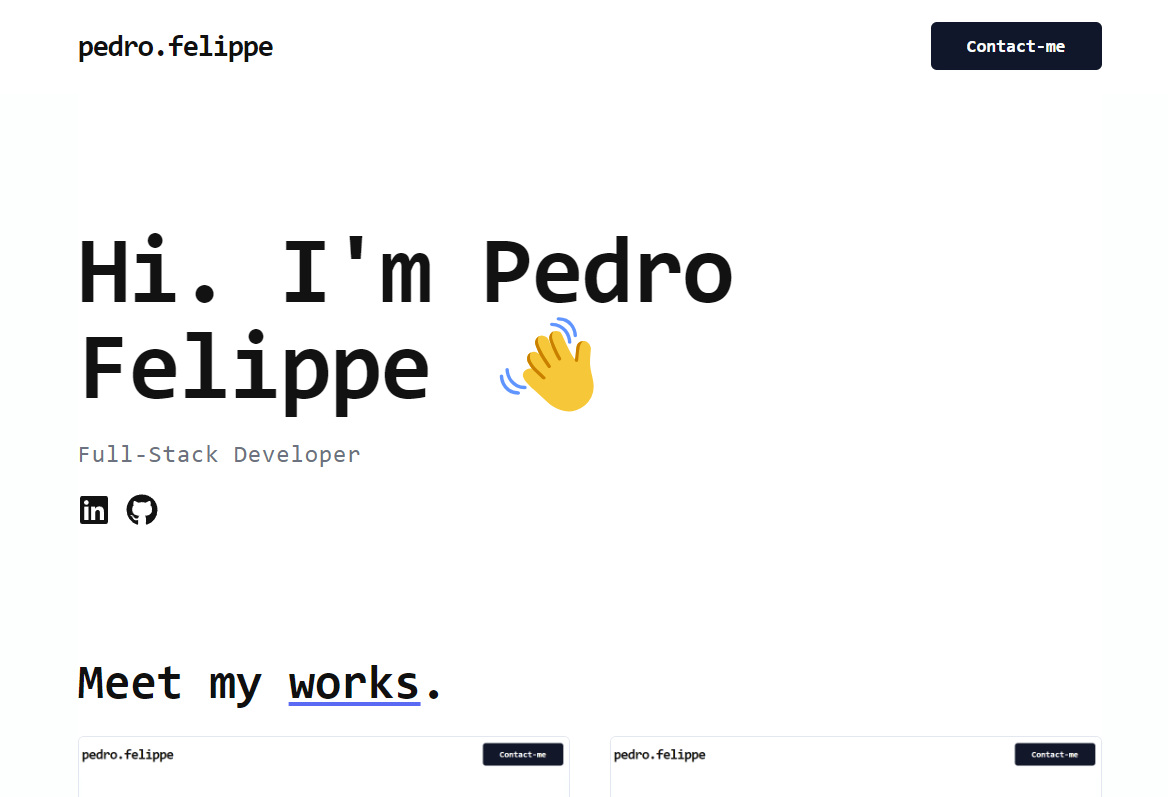
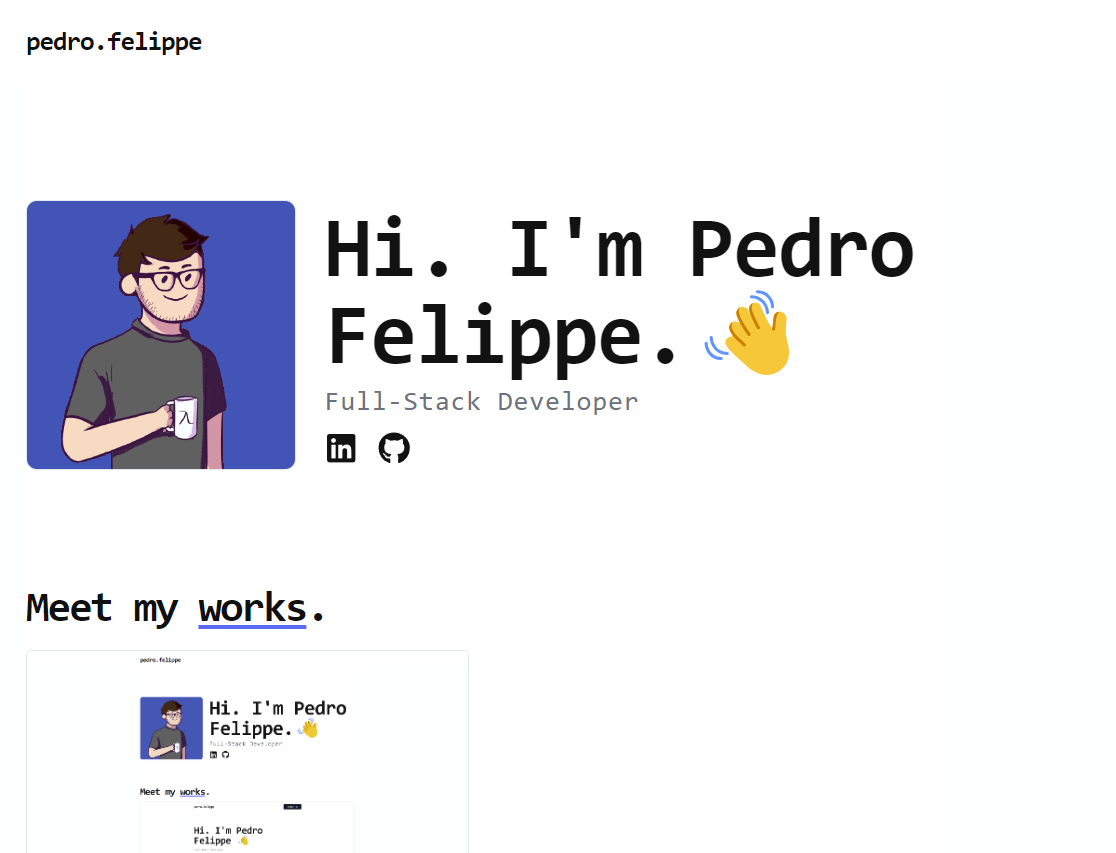
creating about e css adjusments

diff --git a/src/content/Hero.tsx b/src/content/Hero.tsx
@@ -3,78 +3,44 @@ import { motion } from "framer-motion";
 import { FaGithub, FaLinkedin } from "react-icons/fa";
 
 import AnimatedBtn from "../components/animated/AnimatedBtn";
-import { Button } from "../components/ui/button";
 
 export default function Hero() {
   return (
     <motion.div
-      className="flex flex-col justify-start w-full  h-fit mx  text-start max-md:flex-col gap-4 max-w-3xl md:gap-10">
+      className="flex justify-start w-full  h-fit mx  text-center max-md:flex-col gap-4 md:gap-10 ">
+      <motion.img src="/assets/avatar-pdr.png" alt="pedro felippe"   className="border rounded-xl max-md:rounded-full max-md:h-28 max-md:w-28 md:w-[300px]"/>
 
-      <motion.div 
-        className="flex flex-col w-full gap-6   justify-center">
+      <motion.div className="flex flex-col w-full gap-2   justify-center">
         <motion.h1         
           initial={{ opacity: 0, y: 25 }}
           animate={{ opacity: 1, y: 0 }}
-          transition={{ duration: 0.5}}  
+          transition={{ duration: 0.5}} 
           className="text-5xl md:text-8xl text-start font-bold  tracking-tight">
-          Hi. I'm Pedro Felippe 👋
+          Hi. I'm Pedro Felippe.👋
         </motion.h1>
 
         <motion.h3
           initial={{ opacity: 0, y: 25 }}
           animate={{ opacity: 1, y: 0 }}
           transition={{ duration: 0.5, delay:0.5}}  
-          className="text-2xl text-gray-500 text-start font-medium tracking-[1px]">
-          Full-Stack Developer
+          className="text-3xl text-gray-500 text-start font-medium tracking-[1px] pb-2">
+          Full-Stack Developer 
         </motion.h3>
 
         <motion.div
           initial={{ opacity: 0, y: 25 }}
           animate={{ opacity: 1, y: 0 }}
           transition={{ duration: 0.5, delay:1}}  
-          className="flex gap-4 items-center">
+          className="flex gap-6 items-center">
             <AnimatedBtn target="_blank" href="https://www.linkedin.com/in/pedro-felippe/">
-              <FaLinkedin className="h-9 w-9 hover:text-blue"/>
+              <FaLinkedin className="h-10 w-10 hover:text-blue"/>
             </AnimatedBtn>
 
             <AnimatedBtn  href="https://github.com/pefelippe">
-              <FaGithub className="h-9 w-9 hover:text-blue"/>
-            </AnimatedBtn>
-
-            <AnimatedBtn target="_blank" href="https://drive.google.com/file/d/1V5sxQbNz1tgaO3exTl3aTvql7l8qxl2r/view?usp=sharing">
-              <Button variant="secondary" className="w-fit px-16 py-7 font-semibold hover:underline border text-lg xl:text-xl ">
-                <p>Resume</p>
-              </Button>
+              <FaGithub className="h-10 w-10 hover:text-blue"/>
             </AnimatedBtn>
         </motion.div>
-        
-        {/* <motion.span
-          className="text-lg  font-regular w-full text-gray-700  tracking-tight "
-        >
-          I've been coding simple, fast and easy to use web interfaces since 2018.
-          I deal with cloud services, keeping everything connected, and making sure the databases work smoothly. 
-        </motion.span>
-
-        <motion.div className="flex gap-3 max-w-xl ">
-          <Button variant='outline' className="py-7 text-lg font-medium hover:underline">
-            <Link target="_blank" href="https://www.linkedin.com/in/pedro-felippe/">
-              <FaLinkedin className="h-6 w-6"/>
-            </Link>
-          </Button>
-          <Button variant='outline' className=" py-7 text-lg font-medium hover:underline">
-            <Link target="_blank" href="https://github.com/pefelippe">
-              <FaGithub className="h-6 w-6"/>
-            </Link>
-          </Button>
-          <Button variant="secondary" className="w-fit px-16 py-7 text-xl font-semibold hover:underline border text-lg xl:text-xl ">
-            <Link target="_blank" href="https://drive.google.com/file/d/1V5sxQbNz1tgaO3exTl3aTvql7l8qxl2r/view?usp=sharing">
-              Resume
-            </Link>
-          </Button>
-        </motion.div> */}
       </motion.div>
-
-  
 
     </motion.div>
   );

diff --git a/src/content/About.tsx b/src/content/About.tsx
@@ -1,35 +1,49 @@
 /* eslint-disable react/no-unescaped-entities */
 import { motion } from "framer-motion";
+import Image from "next/image";
+
+import AnimatedBtn from "../components/animated/AnimatedBtn";
+import { Button } from "../components/ui/button";
 
 function AboutContent() {
   return (
-    <motion.div
-      className="flex justify-start w-full mx-auto  gap-10
-       items-center relative  max-xl:flex-col min-h-screen"
-    >
-      <motion.div
+    <motion.div 
+      initial={{ opacity: 0, y: 50 }}
+      whileInView={{ opacity: 1, y: 0 }}
+      transition={{ duration: 0.5}}   
+      className="flex justify-center w-full mx-auto gap-6 items-start relative  flex-col ">
 
-        className="font-extralight text-xl  flex flex-col gap-4
-         h-full w-full justify-start text-start items-start"
-      >
         <motion.h1
           initial={{ y: 75 }}
           animate={{  y: 0 }}
           transition={{ duration: 0.5 }}
-          className="text-[40px] xl:text-7xl max-w-3xl font-bold leading-relaxed tracking-tighter font-mono"
+          className="text-[40px] xl:text-5xl max-w-3xl font-bold tracking-tighter font-mono"
         >
-          Hello, I'm Pedro 👋
+          Who am i.
         </motion.h1>
 
-        <motion.h3
-          initial={{ y: 75, opacity: 0 }}
-          animate={{  y: 0, opacity: 1 }}
-          transition={{ duration: 0.5, delay: 0.5 }} 
-          className="font-thin text-xl xl:text-3xl  max-w-xl"
-        >
-          I'm a Full Stack Software Engineer based in Brazil.
-        </motion.h3>
-      </motion.div>
+        <motion.div className="flex justify-start w-full  h-fit mx  text-start max-md:flex-col gap-4 md:gap-10">
+          <Image src="/assets/pedrof.jpg" alt="pedro felippe" width={350} height={350} className="flex-shrink-0 object-cover border rounded-md 
+          max-md:w-full max-md:max-h-[300px]"/>
+          <motion.div className="flex flex-col items-center justify-center w-full">
+            <motion.h3
+              initial={{ y: 75, opacity: 0 }}
+              animate={{  y: 0, opacity: 1 }}
+              transition={{ duration: 0.5, delay: 0.5 }} 
+              className="font-thin text-xl  leading-normal tracking-tighter "
+              >
+              I'm a Full Stack Developer based in Brazil who's been building industry utilized applications 
+              since 2018.<br/><br/> Since then, I've worked in companies and taken on freelance projects and consulting for clients.<br/><br/> 
+              My focus is on finding the best ways to enhance user experience and create reusable, scalable, and testable interfaces.<br/><br/>
+            </motion.h3>
+            <AnimatedBtn target="_blank" href="https://drive.google.com/file/d/1V5sxQbNz1tgaO3exTl3aTvql7l8qxl2r/view?usp=sharing">
+                <Button variant="outline" className="w-full px-20 py-7 font-semibold hover:underline border text-lg xl:text-xl ">
+                  <p>Resume</p>
+                </Button>
+              </AnimatedBtn>
+          </motion.div>
+        </motion.div>
+ 
     </motion.div>
   );
 }

diff --git a/src/content/ContactContent.tsx b/src/content/ContactContent.tsx
@@ -1,28 +1,28 @@
 /* eslint-disable react/no-unescaped-entities */
 import { motion } from "framer-motion";
-import Link from "next/link";
 
-import { Button } from "../components/ui/button";
+import MessageForm from "../components/MessageForm";
 
 function ContactContent() {
   return (
     <motion.div
-      initial={{ opacity: 0, y: 50 }}
-      whileInView={{ opacity: 1, y: 0 }}
-      transition={{ duration: 0.5 }}
-      className="flex justify-start w-full mx-auto max-w-xl h-fit  items-center relative  max-xl:flex-col "
-    >
-      <div className="relative h-full w-full flex justify-center gap-5 flex-col items-center">
-        <div className="text-5xl  font-bold leading-[1.2] max-w-4xl w-fit text-center ">
-          Bring your ideas to <span className="underline underline-offset-4 decoration-blue">reality.</span>
-        </div>
-        <Button  className=" w-fit py-6 px-9 text-lg font-semibold hover:underline  font-mono">
-          <Link href="/contact">
-            Contact-me
-          </Link>
-        </Button>
-      </div>
-    </motion.div>
+    initial={{ opacity: 0, y: 50 }}
+    whileInView={{ opacity: 1, y: 0 }}
+    transition={{ duration: 0.5 }}
+    className="flex flex-col mx-auto justify-center items-center  relative w-full h-full min-h-fit  max-xl:px-6 gap-2 "
+  >
+      <h1 className="text-5xl font-bold leading-tight  ">
+        Get in touch 
+      </h1>
+      <h3 className="w-fit text-[20px] pb-2 ">
+        Drop me a message and let's{" "}
+        <span className="underline underline-offset-4 decoration-blue">
+          make things happen!
+        </span>
+      </h3>
+      <MessageForm />
+ 
+  </motion.div>
   );
 }
 

diff --git a/src/components/ProjectCard.tsx b/src/components/ProjectCard.tsx
@@ -35,27 +35,26 @@ function ProjectCard({
             }}
             src={imgUrl}
             alt="card image"
-            className="flex-shrink-1 object-fit transition-all flex h-full w-full max-h-[400px]  "
+            className="flex-shrink-1 object-fit transition-all flex w-full h-[300px]  "
             />
           </Link>
       </motion.div>
 
       <div className="flex flex-col  text-start p-4 gap-2 px-0 rounded-sm ">
         <p className="text-3xl">{title}</p>
-        
-
         <div className="flex gap-2 flex-wrap">
           {stack.map(tool => {
             return <div key={tool} className="bg-black w-fit text-white px-2">{tool}</div>
           })}
         </div>
 
-        <h3 className="max-w-xl text-lg pb-2">{description}</h3>
+        <h3 className="max-w-xl text-xl pb-2">{description}</h3>
 
         <Link
           href={link}
           target="_blank"
-          className="text-xl text-gray-700 font-medium flex gap-2 items-center underline hover:text-gray-300 transition-all "
+          className="text-xl text-gray-700 font-semibold flex gap-2
+           items-center underline hover:text-gray-300 transition-all "
         >
           Visit the site <FaLink/>
         </Link>

diff --git a/pages/contact.tsx b/pages/contact.tsx
@@ -9,10 +9,13 @@ function Contact() {
       initial={{ opacity: 0, y: 50 }}
       whileInView={{ opacity: 1, y: 0 }}
       transition={{ duration: 0.5 }}
-      className="flex flex-col max-w-5xl mx-auto  relative w-full h-full min-h-fit  max-xl:px-6 gap-20 xl:gap-32 py-10 xl:py-20 xl:pt-32 mt-24 "
+      className="flex flex-col max-w-5xl mx-auto  relative w-full h-full min-h-fit  
+      max-xl:px-6 gap-20 xl:gap-32 py-10 xl:py-20 xl:pt-32 mt-24 "
     >
-      <div className="relative h-full w-full flex justify-start gap-6 lg:gap-16 max-lg:flex-col items-center text-center ">
-        <div className=" flex flex-col gap-4 max-w-3xl w-full h-full items-center justify-center  text-start ">
+      <div className="relative h-full w-full flex justify-start gap-6
+       lg:gap-16 flex-col items-center text-center ">
+        <div className=" flex flex-col gap-4 max-w-3xl 
+        w-full h-full items-center justify-center  text-start ">
           <div className="w-full text-xl gap-6 flex flex-col mb-4">
             <h1 className="text-5xl md:text-6xl font-bold leading-tight  ">
               Get in touch 

diff --git a/src/content/ProjectContent.tsx b/src/content/ProjectContent.tsx
@@ -7,16 +7,16 @@ function Projects() {
   return (
     <motion.div
       initial={{ opacity: 0, y: 50 }}
-      whileInView={{ opacity: 1, y: 0 }}
+      animate={{ opacity: 1, y: 0 }}
       transition={{ duration: 0.75, delay: 1.5 }}
       id="work"
       className=" flex flex-col w-full items-start  justify-start text-[#101010] gap-6 mx-auto "
     >
-      <h1 className="text-5xl font-bold leading-[1.2] max-w-4xl w-fit text-start">
+      <h1 className="text-[40px] xl:text-5xl max-w-3xl font-bold tracking-tighter font-mono">
         Meet my <span className="underline underline-offset-4 decoration-blue">works</span>.
       </h1>
 
-      <div className="grid md:grid-cols-1 gap-10 justify-center w-full items-center mx-auto">
+      <div className="grid md:grid-cols-2 gap-10 justify-center w-full items-center mx-auto">
         {projects?.map((proj) => {
           return (
             <ProjectCard

diff --git a/src/components/MessageForm.tsx b/src/components/MessageForm.tsx
@@ -91,12 +91,12 @@ export default function MessageForm({}) {
           id="message"
           placeholder="Message"
           className=" border border-[#242424] px-6 py-3  rounded-md 
-            focus:outline-none focus:ring focus:ring-blue-500 min-h-[250px] lg:min-h-[300px] shadow  bg-[#202020]/10"
+            focus:outline-none focus:ring focus:ring-blue-500 min-h-[250px] lg:min-h-[350px] shadow  bg-[#202020]/10"
         />
 
         <Button
           type="submit"
-          className=" text-center  py-7  text-white  px-12 rounded-md justify-start  mx-auto
+          className=" text-center  py-7  text-white  px-16 rounded-md justify-start  mx-auto
           transition-all font-medium text-xl focus:outline-none focus:ring focus:ring-blue-500 hover:underline"
         >
           {isLoading ? "Sending..." : "Start partnership!"}

diff --git a/src/components/layout/Header.tsx b/src/components/layout/Header.tsx
@@ -2,8 +2,6 @@ import { motion } from "framer-motion";
 import Link from "next/link";
 import { useState } from "react";
 
-import { Button } from "../ui/button";
-
 const Header = () => {
   const [open, setOpen] = useState(false);
 
@@ -18,12 +16,6 @@ const Header = () => {
         <Link href="/">
           <p className="text-3xl font-bold tracking-tighter">pedro.felippe</p>
         </Link>
-
-          <Button className="w-fit py-6 px-9 text-lg font-semibold hover:underline max-md:hidden font-mono ">
-            <Link href="/contact">
-              Contact-me
-            </Link>
-          </Button>
         </div>
    
     </motion.header>

diff --git a/src/constants/index.js b/src/constants/index.js
@@ -8,16 +8,7 @@ export const projects = [
     stack: ["react", "tailwind", "shadcn", "next", "typescript"],
     description: "My personal site. Where i can share my projects and talk a little about me.",
   },
-  {
-    id: 2,
-    link: "https://portfolio-pefelippe.vercel.app/",
-    repo: "https://github.com/pefelippe/Portfolio",
-    title: "Personal Website",
-    imgUrl: "/projects/portfolio.png",
-    stack: ["react", "tailwind", "shadcn", "next", "typescript"],
-    description: "My personal site. Where i can share my projects and talk a little about me.",
-  },
- 
+
 ];
 
 export const technologies = [

diff --git a/pages/index.tsx b/pages/index.tsx
@@ -8,7 +8,7 @@ import ProjectContent from "../src/content/ProjectContent";
 export default function Home() {
   return (
     <motion.div className="flex flex-col  relative w-full h-full 
-    max-xl:px-6 gap-16 xl:gap-32 py-10 xl:py-20 xl:pt-32 mt-24
+    max-xl:px-6 gap-16 xl:gap-32 py-10 xl:py-20 xl:pt-24 mt-24
     bg-[#fff] text-[#121212] max-w-5xl mx-auto">
       <Hero />
       <ProjectContent />
